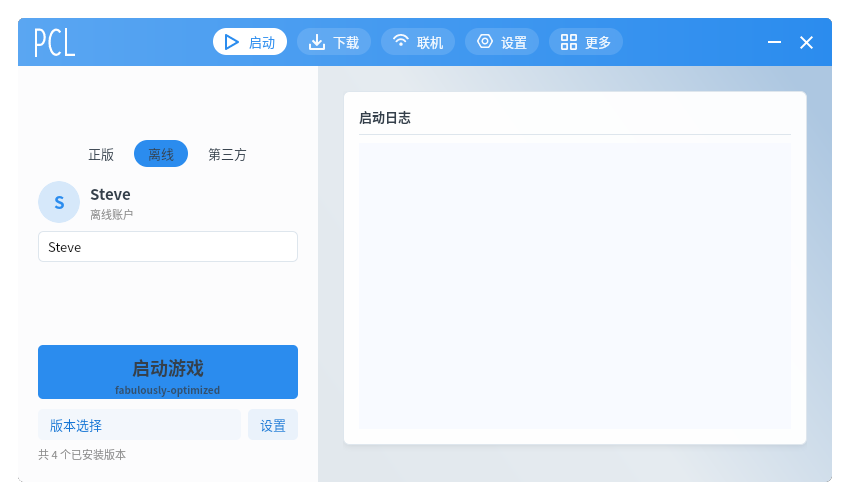
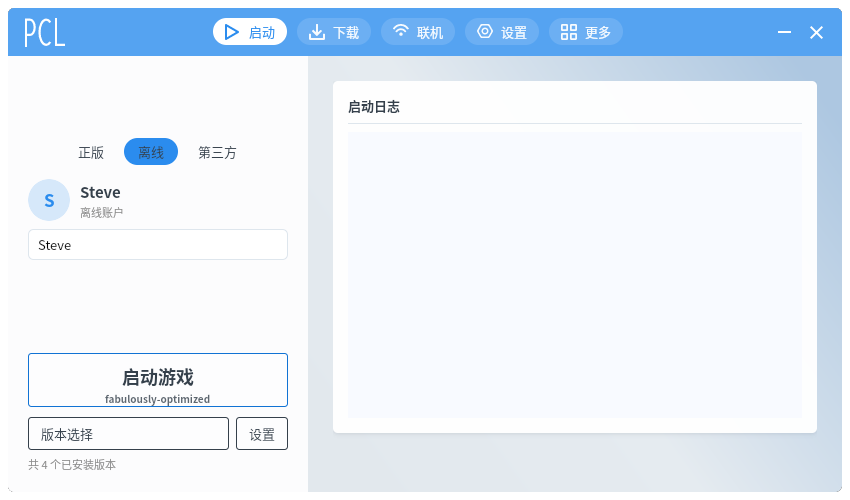
feat(ui): 整合包分栏与输入样式
整合包页分栏与空状态，关于/联机页全宽，输入框样式对齐 PCL2。

Changed region(s): [[0.0, 0.0, 1.0, 0.99], [0.0918, 0.27, 0.3059, 0.36]]

diff --git a/src/WMCL.App/ViewModels/InstallViewModel.cs b/src/WMCL.App/ViewModels/InstallViewModel.cs
@@ -40,8 +40,36 @@ public partial class InstallViewModel : ViewModelBase
         "Fabric + OptiFine", "Forge + OptiFine"
     ];
 
+    public ObservableCollection<string> BaseLoaderKinds { get; } =
+        ["无", "Fabric", "Forge", "NeoForge", "OptiFine"];
+
     [ObservableProperty]
     private string _selectedLoaderKind = "无";
+
+    [ObservableProperty]
+    private string _selectedBaseLoader = "无";
+
+    [ObservableProperty]
+    private bool _installOptiFineWithBase;
+
+    public bool CanAddOptiFine =>
+        SelectedBaseLoader is "Fabric" or "Forge";
+
+    partial void OnSelectedBaseLoaderChanged(string value)
+    {
+        OnPropertyChanged(nameof(CanAddOptiFine));
+        if (!CanAddOptiFine) InstallOptiFineWithBase = false;
+        SyncLoaderKind();
+    }
+
+    partial void OnInstallOptiFineWithBaseChanged(bool value) => SyncLoaderKind();
+
+    private void SyncLoaderKind()
+    {
+        SelectedLoaderKind = CanAddOptiFine && InstallOptiFineWithBase
+            ? $"{SelectedBaseLoader} + OptiFine"
+            : SelectedBaseLoader;
+    }
 
     [ObservableProperty]
     private string _instanceName = "";

diff --git a/src/WMCL.App/Services/ThemeService.cs b/src/WMCL.App/Services/ThemeService.cs
@@ -51,16 +51,9 @@ public static class ThemeService
         Set(app, "WmclBlue7", Hsl(hue, s * 0.8, dark ? 18 : 95));
         Set(app, "WmclBlue8", Hsl(hue, s * 0.7, dark ? 15 : 97));
 
-        app.Resources["WmclTitleGradient"] = new LinearGradientBrush
-        {
-            StartPoint = new RelativePoint(0, 0, RelativeUnit.Relative),
-            EndPoint = new RelativePoint(1, 0, RelativeUnit.Relative),
-            GradientStops =
-            {
-                new GradientStop(Hsl(hue, s, dark ? 45 : 65 + l * 0.8), 0),
-                new GradientStop(Hsl(hue, s, dark ? 38 : 55 + l), 1)
-            }
-        };
+        // PCL2 标题栏使用 ColorObject4 单色，不做左右渐变。
+        app.Resources["WmclTitleGradient"] = new SolidColorBrush(
+            Hsl(hue, s, dark ? 42 : 64 + l * 0.5));
         app.Resources["WmclPage"] = new LinearGradientBrush
         {
             StartPoint = new RelativePoint(0.9, 0, RelativeUnit.Relative),

diff --git a/src/WMCL.App/ViewModels/MainWindowViewModel.cs b/src/WMCL.App/ViewModels/MainWindowViewModel.cs
@@ -99,8 +99,7 @@ public partial class MainWindowViewModel : ViewModelBase, IDisposable
             new NavItem("ⓘ", "关于与鸣谢", About, "about"),
             new NavItem("▣", "百宝箱", Toolbox, "toolbox"),
             new NavItem("⇧", "反馈", Feedback, "feedback"),
-            new NavItem("◔", "新功能投票", Vote, "vote"),
-            new NavItem("▦", "实例管理", Instance, "instance")
+            new NavItem("◔", "新功能投票", Vote, "vote")
         ];
         _settingsTabs =
         [
@@ -458,6 +457,11 @@ public partial class MainWindowViewModel : ViewModelBase, IDisposable
 
     private void NavigateTo(string key)
     {
+        if (key == "instance")
+        {
+            PushPage(Instance, "实例设置");
+            return;
+        }
         _navigating = true;
         try
         {

diff --git a/src/WMCL.App/ViewModels/ModsViewModel.cs b/src/WMCL.App/ViewModels/ModsViewModel.cs
@@ -32,6 +32,8 @@ public partial class ModsViewModel : ViewModelBase
         _fabric = services.Fabric;
         _forgelike = services.Forgelike;
         _optifine = services.Optifine;
+        SearchResults.CollectionChanged += (_, _) =>
+            OnPropertyChanged(nameof(HasSearchResults));
     }
 
     public event EventHandler? VersionInstalled;
@@ -166,6 +168,7 @@ public partial class ModsViewModel : ViewModelBase
     private Dictionary<string, ModUpdateInfo> _modUpdates = new(StringComparer.OrdinalIgnoreCase);
 
     public ObservableCollection<ModrinthProject> SearchResults { get; } = [];
+    public bool HasSearchResults => SearchResults.Count > 0;
     public ObservableCollection<ModVersionItem> ModVersions { get; } = [];
     public ObservableCollection<string> ModSources { get; } = ["Modrinth", "CurseForge"];
 

diff --git a/src/WMCL.App/Views/InstanceView.axaml.cs b/src/WMCL.App/Views/InstanceView.axaml.cs
@@ -4,6 +4,21 @@ namespace WMCL.App.Views;
 
 public partial class InstanceView : UserControl
 {
+    private void OnSectionChanged(object? sender, SelectionChangedEventArgs e)
+    {
+        var index = SectionList?.SelectedIndex ?? -1;
+        if (index < 0) return;
+        var target = index switch
+        {
+            0 => OverviewCard,
+            1 => ServerCard,
+            2 => ExportCard,
+            3 => SettingsCard,
+            _ => null
+        };
+        target?.BringIntoView();
+    }
+
     private async void OnChooseExportPathClick(object? sender, Avalonia.Interactivity.RoutedEventArgs e)
     {
         if (DataContext is not ViewModels.InstanceViewModel viewModel) return;

diff --git a/src/WMCL.App/ViewModels/InstanceViewModel.cs b/src/WMCL.App/ViewModels/InstanceViewModel.cs
@@ -48,8 +48,8 @@ public partial class InstanceViewModel : ViewModelBase, IDisposable
     public bool HasInstances => Instances.Count > 0;
     public string SelectedInstanceTitle => SelectedInstance?.Id ?? "未选择实例";
     public string SelectedInstanceInfo => SelectedInstance is null
-        ? "从左侧选择一个实例"
-        : $"{SelectedInstance.TypeText} · {SelectedInstance.ReleaseTime ?? "未知时间"}";
+        ? "从上方选择一个实例"
+        : SelectedInstance.Subtitle;
     public string SelectedInstancePath => SelectedInstance is null
         ? GameDirectory
         : Path.Combine(GameDirectory, "versions", SelectedInstance.Id);

diff --git a/src/WMCL.App/ViewModels/ModpackViewModel.cs b/src/WMCL.App/ViewModels/ModpackViewModel.cs
@@ -21,10 +21,12 @@ public partial class ModpackViewModel : ViewModelBase
     {
         _services = services;
         _gameVersion = "1.21.1";
+        Results.CollectionChanged += (_, _) => OnPropertyChanged(nameof(HasResults));
     }
 
     public event EventHandler? InstanceInstalled;
     public ObservableCollection<ModpackItem> Results { get; } = [];
+    public bool HasResults => Results.Count > 0;
     public ObservableCollection<ModpackVersionItem> ModpackVersions { get; } = [];
     public ObservableCollection<string> Platforms { get; } = ["Modrinth", "CurseForge"];
 

diff --git a/src/WMCL.App/ViewModels/DownloadViewModel.cs b/src/WMCL.App/ViewModels/DownloadViewModel.cs
@@ -26,7 +26,7 @@ public partial class DownloadViewModel : ViewModelBase
     public string SelectedVersionTitle => SelectedVersion?.Id ?? "选择一个版本";
     public string SelectedVersionInfo => SelectedVersion is null
         ? "从左侧选择一个版本"
-        : $"{SelectedVersion.TypeText} · {SelectedVersion.ReleaseTime ?? "未知时间"}";
+        : SelectedVersion.Subtitle + (SelectedVersion.IsInstalled ? " · 已安装" : "");
     public string GameDirectory => _services.Settings.GameDirectory;
 
     [ObservableProperty]

diff --git a/docs/UI_REFERENCE.md b/docs/UI_REFERENCE.md
@@ -10,12 +10,14 @@
 
 | 项 | 值 |
 |---|---|
-| 窗口 | 850×500，`ResizeMode=CanMinimize`（不可缩放） |
-| 标题栏 | 48px；窗口按钮 28×28；关闭右边距 12，最小化 44 |
+| 窗口 | 850×500，`ResizeMode=CanMinimize`（不可缩放）；内容外边距 8px、圆角 6px |
+| 标题栏 | 48px；单色 `ColorObject4`（默认 #4890F5）；窗口按钮 28×28；关闭右边距 12，最小化 44 |
 | 顶部导航 | 高 27px，圆角 13.5；选中白底、蓝字/蓝图标 |
 | 启动页左栏 | 300px |
 | 右侧内容边距 | 25px（启动页 25,25,25,10） |
-| 卡片 | 圆角 6；参考 PCL-ME `PclCard` 加 1px 边线/轻阴影 |
+| 卡片 | PCL2 `MyCard`：圆角 5、无边框、背景 #F5FFFFFF、3px 柔和阴影 |
+| 按钮 | PCL2 `MyButton`：半透明白底 + 1px 边框；普通灰边灰字，Highlight 蓝边蓝字；圆角 3 |
+| 输入框/下拉框 | PCL2 `MyTextBox/MyComboBox`：半透明白底、浅蓝 `ColorBrushBg0` 边框、圆角 3、13px |
 | 页面背景 | 蓝色渐变（PCL-ME：`#96C0F9 → #E0EAFD → #D5E6FD`） |
 
 ## 当前实现
@@ -35,5 +37,9 @@
 - PCL-ME 的 `PclCard` 标题栏/内容边距还未完全复刻；
 - PCL-ME 启动页的账号资料卡、启动按钮样式与本项目仍有差异；
 - PCL-CE 的 PageHomepage 新闻主页/PageTools 尚未实现；
-- 实例页已拆为独立卡片（实例信息/服务器/导出与操作/实例设置），左栏固定 300px；仍未改成 PCL-CE 的完整子导航；
-- 下载/Mod/整合包页仍待逐页重排。
+- 实例页已去掉重复的 300px 实例列表，加入 150px 分区导航（概览/服务器/导出/设置），右侧全宽卡片，顶部实例下拉切换；
+- “更多”移除自定义“实例管理”项；实例设置按 PCL2 从版本选择进入，并作为子页入栈；
+- 整合包页改为左 300 / 右自适应，并补空状态；
+- 下载页加载器卡片默认收起（PCL2 卡片式），底部按钮改回 35px 普通按钮；
+- 组合安装改为“基础加载器 + 可选 OptiFine”；
+- 下载页版本时间改为本地日期，不再显示原始 ISO 字符串。

diff --git a/docs/UI_LOGIC_AUDIT.md b/docs/UI_LOGIC_AUDIT.md
@@ -20,8 +20,8 @@
 | 7 | ~~`LaunchViewModel` 保留 `CanInstall`~~ | 已移除 `CanInstall` 死状态；`InstallCommand` 仍用于 `--auto-install`，保留 |
 | 8 | ~~`Filters`/`SelectedFilter` 死状态~~ | 已移除启动页筛选状态和无用过滤方法 |
 | 9 | ~~下载页对已安装版本禁用“安装”~~ | 已允许对已安装版本重新下载/补全（仍会走安装器的跳过/SHA1 逻辑） |
-| 10 | 下载页加载器卡片仍是“单独安装”按钮，不是 PCL2 的组件勾选后统一安装 | 交互模型不同 |
-| 11 | 实例管理页仍是“列表 + 详情”双列，但已改为独立卡片、左栏固定 300px | 仍不是 PCL2 的版本子导航页 |
+| 10 | 下载页加载器仍是单独安装按钮；组合安装已改成“基础加载器 + OptiFine”组件选择 | 尚未做到 PCL2 的完整组件勾选 |
+| 11 | 实例页已加 150px 分区导航（概览/服务器/导出/设置）+ 全宽卡片；“更多”中的自定义“实例管理”已移除 | 分区项仍少于 PCL-CE |
 | 12 | Mod/整合包页仍是“列表 + 详情”双卡片 | 页面结构不同 |
 | 13 | 任务按钮的进度覆盖尚未在真实任务中做视觉验证 | 只编译验证，未运行验证 |
 
